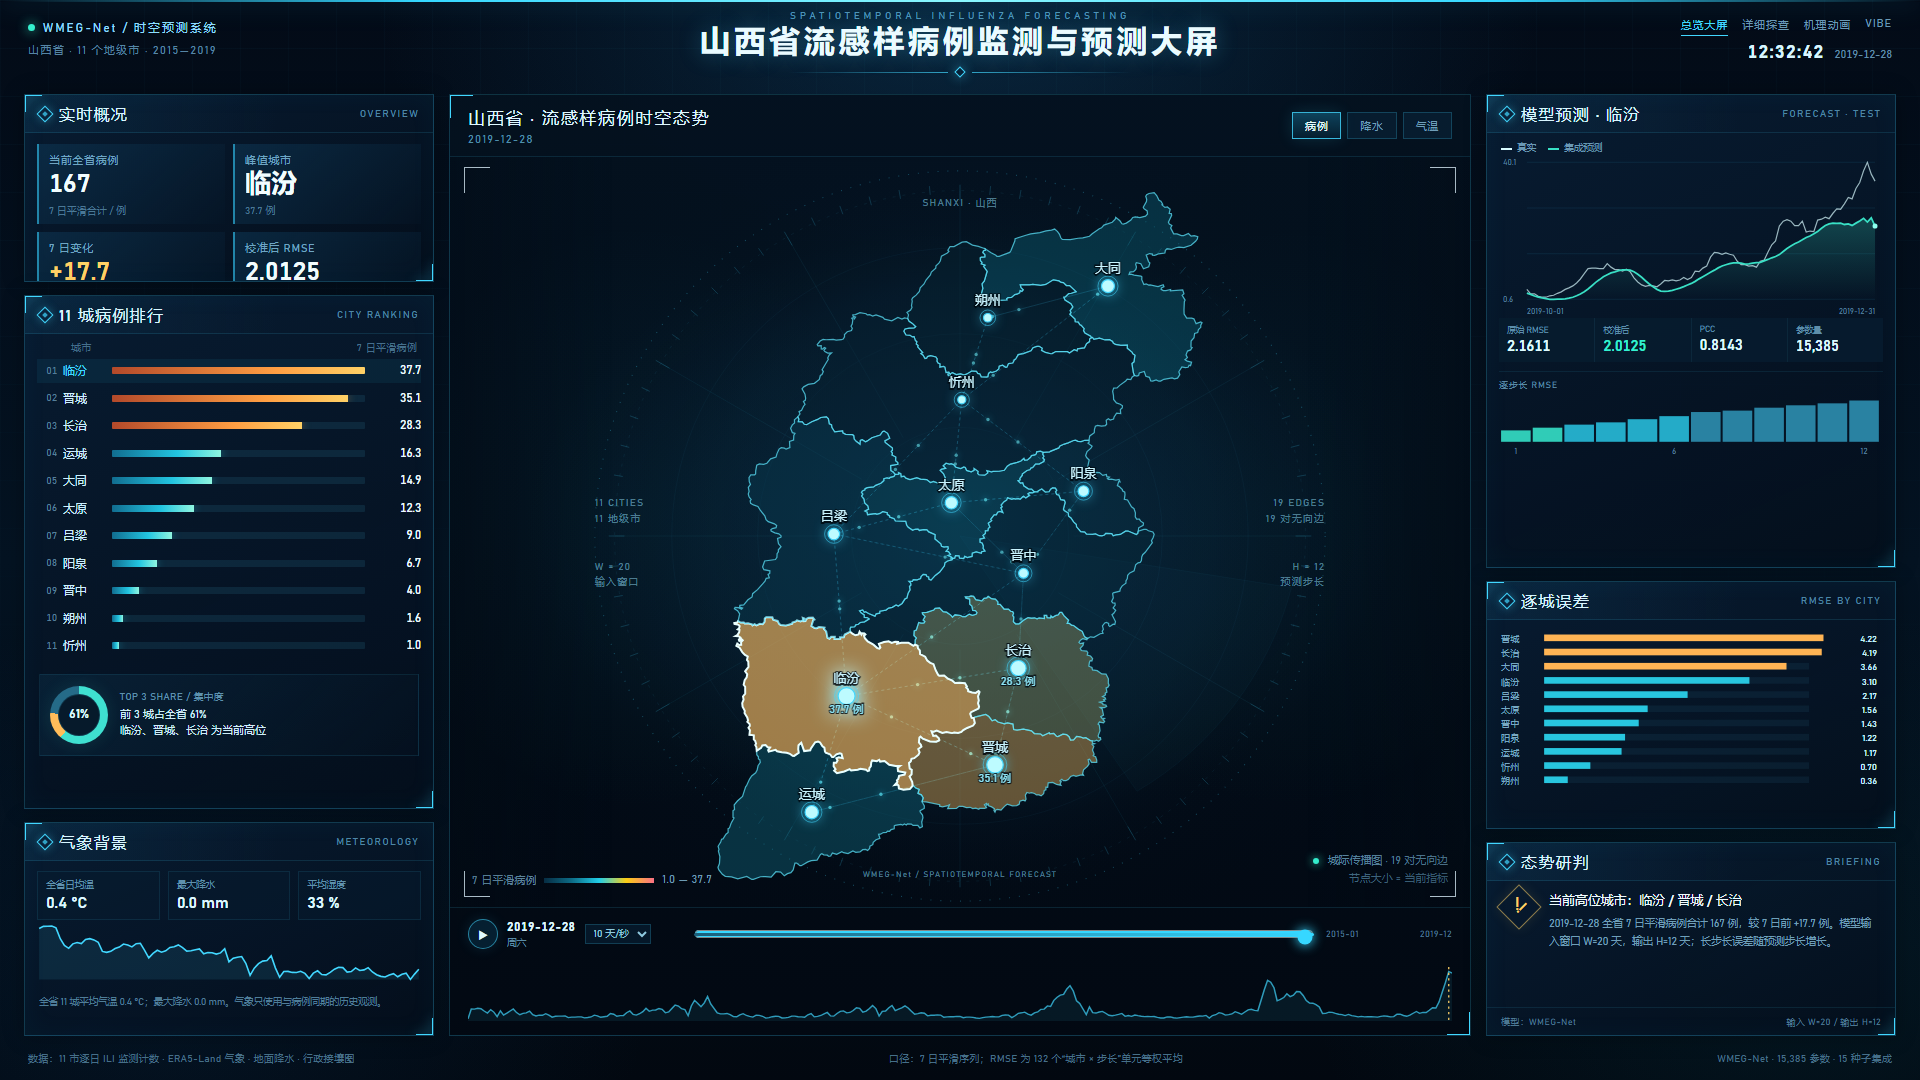
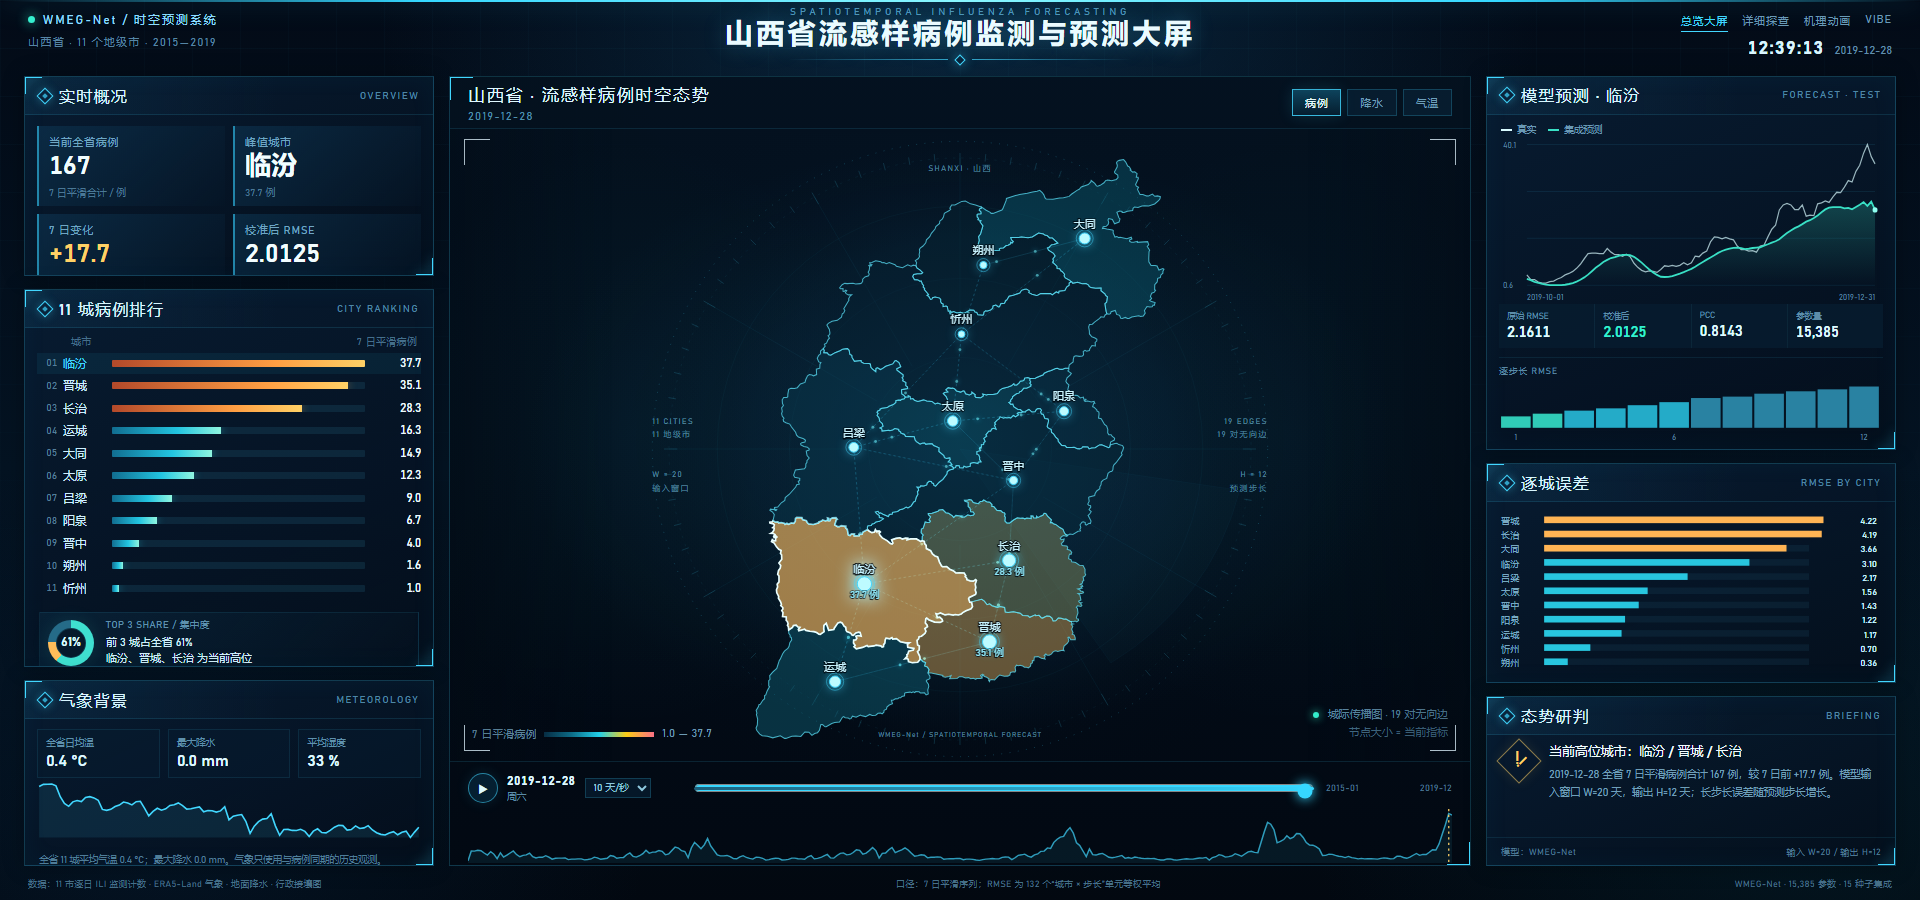
fix: fill browser width without side bars; compact 16:10 layout

diff --git a/assets/screen.css b/assets/screen.css
@@ -5,11 +5,12 @@
   --cyan:#42d7ff; --cyan2:#22b8e6; --teal:#35f0cf; --blue:#2c7dff;
   --gold:#ffd166; --red:#ff5d73; --text:#dff4ff; --muted:#6e9fbc; --line:rgba(66,215,255,.22);
   --font:"Bahnschrift","DIN Alternate","Microsoft YaHei","PingFang SC",sans-serif;
+  --head-h:92px;--foot-h:44px;--timeline-h:128px;--map-head-h:62px;
 }
 *{box-sizing:border-box}
 html,body{margin:0;width:100%;height:100%;overflow:hidden;background:var(--bg0);font-family:var(--font);color:var(--text)}
-body{display:flex;align-items:center;justify-content:center}
-#screen{width:1920px;height:1080px;position:relative;overflow:hidden;background:var(--bg0);transform-origin:center center;flex:0 0 auto}
+body{display:block;position:relative}
+#screen{width:1920px;height:var(--design-h,1080px);position:absolute;left:0;top:0;overflow:hidden;background:var(--bg0);transform-origin:top left;flex:0 0 auto}
 .screen-bg{position:absolute;inset:0;background:
   radial-gradient(900px 520px at 50% 0%,rgba(22,100,150,.30),transparent 65%),
   radial-gradient(800px 600px at 8% 92%,rgba(12,70,120,.18),transparent 62%),
@@ -22,7 +23,7 @@ body{display:flex;align-items:center;justify-content:center}
 .screen-bg:after{content:"";position:absolute;left:0;right:0;top:0;height:2px;background:linear-gradient(90deg,transparent,#35d7ff 22%,#8af7ff 50%,#35d7ff 78%,transparent);box-shadow:0 0 24px rgba(53,215,255,.5)}
 
 /* header */
-.screen-head{position:relative;height:92px;padding:10px 28px 0;display:grid;grid-template-columns:1fr auto 1fr;align-items:start;z-index:3}
+.screen-head{position:relative;height:var(--head-h);padding:10px 28px 0;display:grid;grid-template-columns:1fr auto 1fr;align-items:start;z-index:3}
 .head-left{padding-top:9px}
 .sys-tag{display:flex;align-items:center;gap:8px;font-size:12px;letter-spacing:.16em;color:#8edcff}
 .sys-tag i{width:7px;height:7px;border-radius:50%;background:var(--teal);box-shadow:0 0 12px var(--teal)}
@@ -44,7 +45,7 @@ body{display:flex;align-items:center;justify-content:center}
 .clock span{font-size:11px;color:#608eab}
 
 /* layout */
-.screen-grid{position:relative;display:grid;grid-template-columns:410px minmax(0,1fr) 410px;gap:15px;height:944px;padding:2px 24px 0;z-index:2}
+.screen-grid{position:relative;display:grid;grid-template-columns:410px minmax(0,1fr) 410px;gap:15px;height:calc(var(--design-h,1080px) - var(--head-h) - var(--foot-h));padding:2px 24px 0;z-index:2}
 .col{display:flex;flex-direction:column;gap:13px;min-height:0}
 .col-left{display:grid;grid-template-rows:188px minmax(0,1fr) 214px}
 .col-right{display:grid;grid-template-rows:minmax(0,1fr) 248px 194px}
@@ -74,7 +75,7 @@ body{display:flex;align-items:center;justify-content:center}
 /* ranking */
 .rank-head{display:flex;justify-content:space-between;padding:7px 16px 3px 46px;font-size:9.5px;color:#456f8b;letter-spacing:.08em}
 .rank-list{display:flex;flex-direction:column;gap:4px;padding:2px 12px 9px}
-.rank-row{display:grid;grid-template-columns:20px 43px minmax(0,1fr) 50px;align-items:center;gap:6px;height:23.5px;font-size:11.5px;color:#9cc9dd}
+.rank-row{display:grid;grid-template-columns:20px 43px minmax(0,1fr) 50px;align-items:center;gap:6px;height:25.5px;font-size:11.5px;color:#9cc9dd}
 .rank-row .rk{font-size:10px;color:#557f99;font-variant-numeric:tabular-nums;text-align:right}
 .rank-row .nm{color:#cdefff;letter-spacing:.03em}
 .rank-row .bar{height:7px;background:rgba(31,89,116,.28);position:relative;overflow:hidden;border-radius:1px}
@@ -99,7 +100,7 @@ body{display:flex;align-items:center;justify-content:center}
 .map-panel:before,.map-panel:after{content:"";position:absolute;width:22px;height:22px;z-index:2;pointer-events:none}
 .map-panel:before{left:-1px;top:-1px;border-left:2px solid var(--cyan);border-top:2px solid var(--cyan)}
 .map-panel:after{right:-1px;bottom:-1px;border-right:2px solid var(--cyan);border-bottom:2px solid var(--cyan)}
-.map-head{height:62px;display:flex;align-items:center;padding:0 18px;border-bottom:1px solid rgba(66,215,255,.12)}
+.map-head{height:var(--map-head-h);display:flex;align-items:center;padding:0 18px;border-bottom:1px solid rgba(66,215,255,.12)}
 .map-title span{display:block;font-size:17px;letter-spacing:.1em;color:#dff8ff}
 .map-title b{display:block;margin-top:3px;font-size:11px;letter-spacing:.12em;color:#4f8fab;font-weight:400}
 .map-tabs{margin-left:auto;display:flex;gap:6px}
@@ -120,7 +121,7 @@ body{display:flex;align-items:center;justify-content:center}
 .map-tip b{color:var(--cyan);font-weight:600}
 
 /* timeline */
-.timeline{height:128px;position:relative;border-top:1px solid rgba(66,215,255,.13);padding:9px 18px 0;display:grid;grid-template-columns:210px minmax(0,1fr) 126px;grid-template-rows:34px 1fr;gap:2px 14px;align-items:center}
+.timeline{height:var(--timeline-h);position:relative;border-top:1px solid rgba(66,215,255,.13);padding:9px 18px 0;display:grid;grid-template-columns:210px minmax(0,1fr) 126px;grid-template-rows:34px 1fr;gap:2px 14px;align-items:center}
 .tl-left{display:flex;align-items:center;gap:9px;grid-column:1}
 .play{width:30px;height:30px;border-radius:50%;border:1px solid rgba(66,215,255,.55);background:rgba(9,49,72,.55);color:#dffaff;font-size:10px;cursor:pointer;padding:0;box-shadow:0 0 14px rgba(66,215,255,.12)}
 .play:hover{background:rgba(17,96,128,.6)}
@@ -138,7 +139,7 @@ body{display:flex;align-items:center;justify-content:center}
 .chart-legend{display:flex;gap:12px;padding:8px 14px 0;font-size:9.5px;color:#6a99b4}
 .chart-legend .lg:before{content:"";display:inline-block;width:11px;height:2px;margin-right:5px;vertical-align:middle}
 .chart-legend .true:before{background:#d9fbff}.chart-legend .pred:before{background:#39e0c5}.chart-legend .base:before{background:#8d6bff}
-.forecast-chart{height:164px;padding:0 12px}
+.forecast-chart{height:205px;padding:0 12px}
 .forecast-chart svg{width:100%;height:100%;display:block;overflow:visible}
 .forecast-metrics{display:grid;grid-template-columns:repeat(4,1fr);gap:1px;margin:0 12px 9px;background:rgba(66,215,255,.1)}
 .forecast-metrics div{background:rgba(6,25,43,.88);padding:6px 8px}
@@ -148,6 +149,8 @@ body{display:flex;align-items:center;justify-content:center}
 .error-chart{height:190px;padding:6px 14px 8px}
 .error-chart svg{width:100%;height:100%;display:block}
 .p-brief{display:flex;flex-direction:column}
+.p-forecast{display:flex;flex-direction:column}
+.p-forecast .horizon-wrap{margin-top:auto}
 .brief-mark{position:absolute;left:16px;top:48px;width:32px;height:32px;border:1px solid rgba(255,209,102,.55);color:var(--gold);display:flex;align-items:center;justify-content:center;font-size:18px;transform:rotate(45deg);box-shadow:0 0 14px rgba(255,209,102,.1)}
 .brief-mark:before{content:"!";transform:rotate(-45deg)}
 .brief-body{padding:11px 16px 0 62px}
@@ -156,7 +159,7 @@ body{display:flex;align-items:center;justify-content:center}
 .brief-foot{margin-top:auto;display:flex;justify-content:space-between;padding:7px 14px;border-top:1px solid rgba(66,215,255,.1);font-size:9px;color:#4c7892;letter-spacing:.04em}
 
 /* footer */
-.screen-foot{position:relative;height:44px;display:flex;align-items:center;justify-content:space-between;padding:0 28px;font-size:10px;color:#466f88;letter-spacing:.03em;z-index:2}
+.screen-foot{position:relative;height:var(--foot-h);display:flex;align-items:center;justify-content:space-between;padding:0 28px;font-size:10px;color:#466f88;letter-spacing:.03em;z-index:2}
 .screen-foot span{white-space:nowrap}
 
 /* svg map */
@@ -184,3 +187,21 @@ body{display:flex;align-items:center;justify-content:center}
 .horizon-wrap>span{display:block;font-size:9px;color:#5a89a4;letter-spacing:.08em;margin-bottom:3px}
 .horizon-chart{height:63px}
 .horizon-chart svg{width:100%;height:100%;display:block}
+/* compact vertical mode for 16:10 browser viewports; still fills width */
+body.compact{--head-h:76px;--foot-h:34px;--timeline-h:104px;--map-head-h:52px}
+body.compact .screen-head{padding-top:6px}
+body.compact .head-left{padding-top:5px}
+body.compact .title-kicker{margin-bottom:2px}
+body.compact .head-title h1{font-size:28px}
+body.compact .title-line{margin-top:5px}
+body.compact .screen-grid{padding-top:0}
+body.compact .col-left{grid-template-rows:200px minmax(0,1fr) 186px}
+body.compact .col-right{grid-template-rows:minmax(0,1fr) 220px 170px}
+body.compact .rank-row{height:20.5px}
+body.compact .rank-list{gap:2px}
+body.compact .rank-summary{min-height:62px;margin-top:4px;padding:5px 8px}
+body.compact .rank-donut{width:46px;height:46px}
+body.compact .forecast-chart{height:170px}
+body.compact .horizon-wrap{margin-bottom:6px}
+body.compact .brief-body{padding-top:8px}
+body.compact .screen-foot{font-size:9px}

diff --git a/assets/screen.js b/assets/screen.js
@@ -32,7 +32,7 @@ function cityValueText(name,i){
   return fmt(v,1)+' 例';
 }
 function modeName(){return {cases:'7 日平滑病例',precip:'降水量',tavg:'日均气温'}[state.mode]}
-function fitScreen(){var s=Math.min(innerWidth/1920,innerHeight/1080);$('#screen').style.transform='scale('+s+')'}
+function fitScreen(){var s=innerWidth/1920;var designH=innerHeight/s;document.documentElement.style.setProperty('--design-h',designH.toFixed(2)+'px');document.body.classList.toggle('compact',designH<1000);$('#screen').style.transform='scale('+s+')'}
 window.addEventListener('resize',fitScreen);
 
 function projectSetup(){
